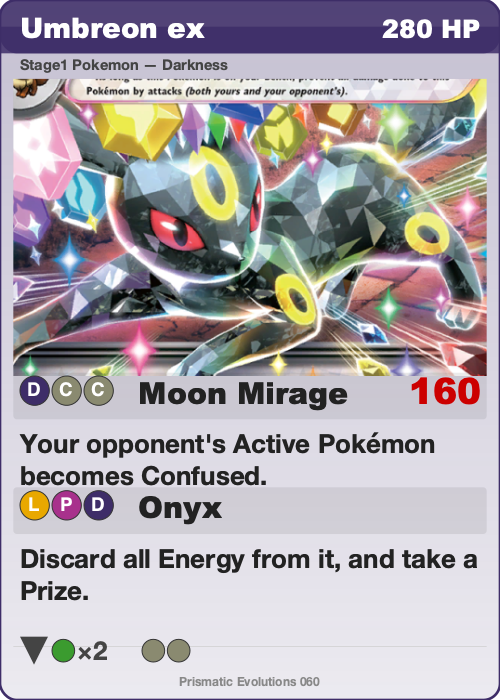
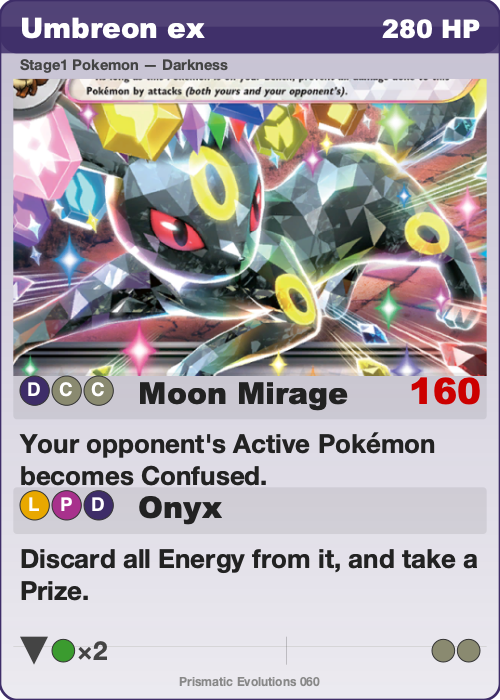
Right-align retreat dots with separator line between footer sections
Retreat colorless dots now right-aligned to card edge (like real cards).
Added thin vertical separator between weakness/resistance and retreat
sections so the retreat dots are clearly distinct.

Changed region(s): [[0.27, 0.9, 0.39, 0.96], [0.87, 0.9, 0.96, 0.96]]

diff --git a/pokeproxy.py b/pokeproxy.py
@@ -684,10 +684,17 @@ def generate_fullart_svg(card: dict, image_b64: str, overlay_opacity: float = 0.
             footer_x += BODY_SIZE * 2.5
 
     if retreat:
+        # Right-align retreat dots
+        retreat_w = retreat * (dot_r * 2 + 4) - 4
+        rx = CARD_W - MARGIN - retreat_w
+        # Separator line if there was weakness/resistance before
+        if weakness or resistance:
+            sep_x = int((footer_x + rx) / 2)
+            lines.append(f'  <line x1="{sep_x}" y1="{int(mid_y - tri_s)}" x2="{sep_x}" y2="{int(mid_y + tri_s)}" stroke="{fill}" stroke-width="1" opacity="0.4"/>')
         ccolor = ENERGY_COLORS.get("Colorless", "#888")
         for _ in range(retreat):
-            lines.append(f'  <circle cx="{int(footer_x + dot_r)}" cy="{int(mid_y)}" r="{dot_r}" fill="{ccolor}" stroke="#333" stroke-width="1.5"/>')
-            footer_x += dot_r * 2 + 4
+            lines.append(f'  <circle cx="{int(rx + dot_r)}" cy="{int(mid_y)}" r="{dot_r}" fill="{ccolor}" stroke="#333" stroke-width="1.5"/>')
+            rx += dot_r * 2 + 4
 
     # Set info
     lines.append(f'  <text x="{CARD_W // 2}" y="{CARD_H - 18}" font-family="{FONT_BODY}" font-size="18" font-weight="600" fill="rgba(255,255,255,0.5)" text-anchor="middle">{escape_xml(set_name)} {escape_xml(local_id)}</text>')
@@ -1027,10 +1034,15 @@ def generate_svg(card: dict, artwork_b64: str) -> str:
             footer_x += BODY_SIZE * 2.5
 
     if retreat:
+        retreat_w = retreat * (dot_r * 2 + 4) - 4
+        rx = CARD_W - MARGIN - retreat_w
+        if weakness or resistance:
+            sep_x = int((footer_x + rx) / 2)
+            lines.append(f'  <line x1="{sep_x}" y1="{int(mid_y - tri_s)}" x2="{sep_x}" y2="{int(mid_y + tri_s)}" stroke="{fill}" stroke-width="1" opacity="0.4"/>')
         ccolor = ENERGY_COLORS.get("Colorless", "#888")
         for _ in range(retreat):
-            lines.append(f'  <circle cx="{int(footer_x + dot_r)}" cy="{int(mid_y)}" r="{dot_r}" fill="{ccolor}" stroke="#333" stroke-width="1.5"/>')
-            footer_x += dot_r * 2 + 4
+            lines.append(f'  <circle cx="{int(rx + dot_r)}" cy="{int(mid_y)}" r="{dot_r}" fill="{ccolor}" stroke="#333" stroke-width="1.5"/>')
+            rx += dot_r * 2 + 4
 
     # Set info — anchor to bottom of card
     lines.append(f'  <text x="{CARD_W // 2}" y="{CARD_H - 20}" font-family="{FONT_BODY}" font-size="18" font-weight="600" fill="#888" text-anchor="middle">{escape_xml(set_name)} {escape_xml(local_id)}</text>')
